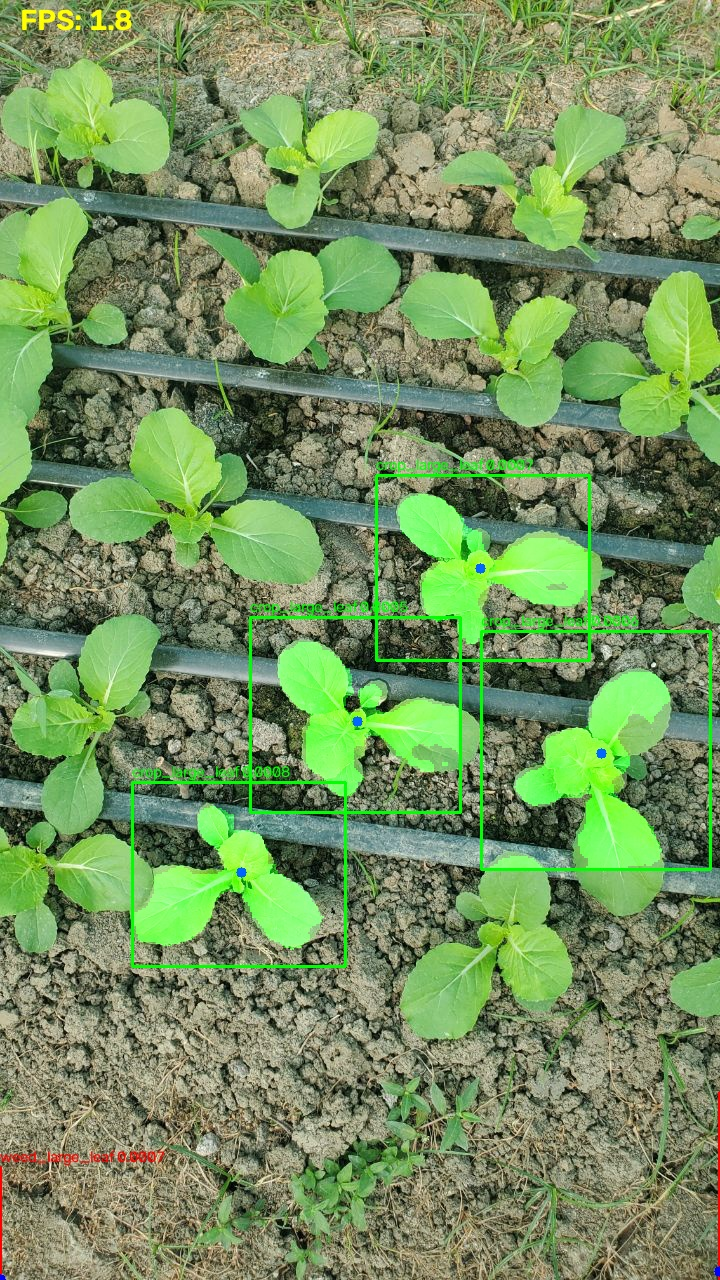
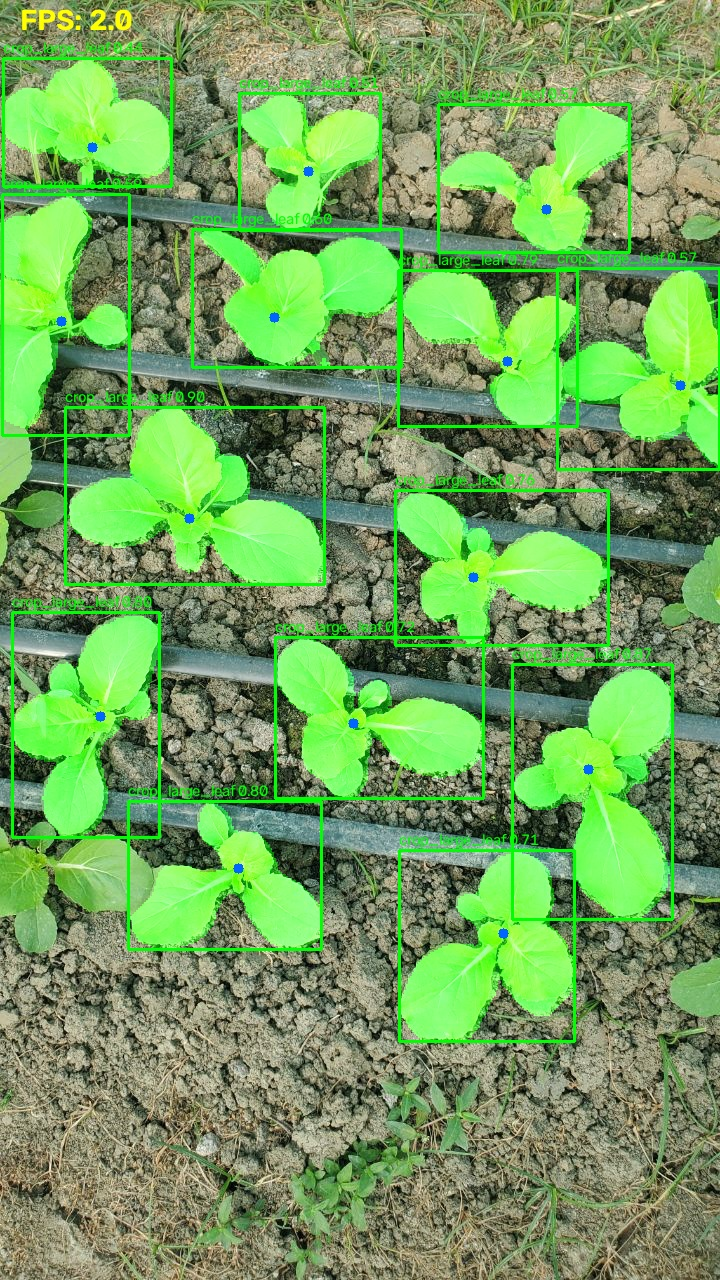
update code for model inference

diff --git a/03_model_export/predict.py b/03_model_export/predict.py
@@ -20,8 +20,8 @@ TEST_IMAGE_PATH = r"C:\Users\TITO TOM\Downloads\plant_detection\03_model_export\
 # Where to save the output image
 OUTPUT_IMAGE_PATH = r"C:\Users\TITO TOM\Downloads\plant_detection\03_model_export\test_images\test_output.jpg"
 
-# Confidence threshold for detections (this model's calibrated scores are ~0.0005 - 0.005)
-CONF_THRES = 0.0005
+
+CONF_THRES = 0.25
 
 # ============================================================
 
@@ -29,7 +29,7 @@ CONF_THRES = 0.0005
 class CustomONNXPredictor:
     """Predictor for custom YOLO11-seg with Root-Point regression."""
 
-    def __init__(self, onnx_path: str, conf_thres: float = 0.0005, img_size: int = 640):
+    def __init__(self, onnx_path: str, conf_thres: float = 0.25, img_size: int = 640):
         self.onnx_path = onnx_path
         self.conf_thres = conf_thres
         self.img_size = img_size
@@ -141,7 +141,7 @@ class CustomONNXPredictor:
 
             # Bounding box
             cv2.rectangle(original_frame, (x1, y1), (x2, y2), color, 2)
-            cv2.putText(original_frame, f"{self.class_names.get(cls_id)} {conf:.4f}",
+            cv2.putText(original_frame, f"{self.class_names.get(cls_id)} {conf:.2f}",
                         (x1, max(y1 - 5, 0)), cv2.FONT_HERSHEY_SIMPLEX, 0.5, color, 1)
 
             # Root point (blue dot)

diff --git a/03_model_export/model/infer_utils.py b/03_model_export/model/infer_utils.py
@@ -1,7 +1,3 @@
-# @deployment: yolo-seg-root v5 (register head)
-# Inference utilities for Jetson deployment — self-contained.
-# Uses module registration instead of head swapping.
-
 """
 infer_utils.py  —  v5 Register Head Inference Utilities
 
@@ -23,7 +19,7 @@ from ultralytics.utils import DEFAULT_CFG
 # Path setup
 # ---------------------------------------------------------------------------
 _MODEL_DIR = os.path.dirname(os.path.abspath(__file__))
-_YAML_PATH = os.path.join(_MODEL_DIR, "yolov11m-seg-root.yaml")
+_YAML_PATH = os.path.join(_MODEL_DIR, "yolov11-seg-root.yaml")
 # yolo11m-seg.pt lives in the parent folder (03_model_export/)
 _PRETRAINED = os.path.join(os.path.dirname(_MODEL_DIR), "yolo11m-seg.pt")
 

diff --git a/03_model_export/README.md b/03_model_export/README.md
@@ -7,20 +7,20 @@ This folder exports your trained model to ONNX format and lets you test it local
 ```
 03_model_export/
 ├── export_model.py           # Step 1 — Export best.pt → best.onnx
-├── test_custom_onnx.py       # Step 2 — Run inference on a test image
+├── predict.py                # Step 2 — Run inference on a test image
 ├── yolo11m-seg.pt            # Pretrained backbone (required for export)
 ├── weights/
 │   └── best.pt               # Your trained weights (place it here)
 ├── exported/
 │   └── best.onnx             # Output after running export_model.py
 ├── test_image/
-│   └── BMC_8.jpg             # Sample test image
+│   └── BMC_19.jpg            # Sample test image
 ├── test_images/
-│   └── test_output.jpg       # Output after running test_custom_onnx.py
+│   └── test_output.jpg       # Output after running predict.py
 └── model/                    # Custom model architecture (do not edit)
     ├── modules.py
     ├── infer_utils.py
-    └── yolov11m-seg-root.yaml
+    └── yolov11-seg-root.yaml
 ```
 
 ---
@@ -48,19 +48,19 @@ This creates `exported/best.onnx`.
 
 ## Step 2 — Test the ONNX Model
 
-Open [`test_custom_onnx.py`](test_custom_onnx.py) and check the paths at the top:
+Open [`predict.py`](predict.py) and check the paths at the top:
 
 ```python
 ONNX_MODEL_PATH   = r"C:\...\03_model_export\exported\best.onnx"
-TEST_IMAGE_PATH   = r"C:\...\03_model_export\test_image\BMC_8.jpg"
+TEST_IMAGE_PATH   = r"C:\...\03_model_export\test_image\BMC_19.jpg"
 OUTPUT_IMAGE_PATH = r"C:\...\03_model_export\test_images\test_output.jpg"
-CONF_THRES        = 0.0005  # recommended: 0.0005 - 0.001
+CONF_THRES        = 0.25
 ```
 
 Then run:
 
 ```bash
-python test_custom_onnx.py
+python predict.py
 ```
 
 Check `test_images/test_output.jpg` — you should see:
